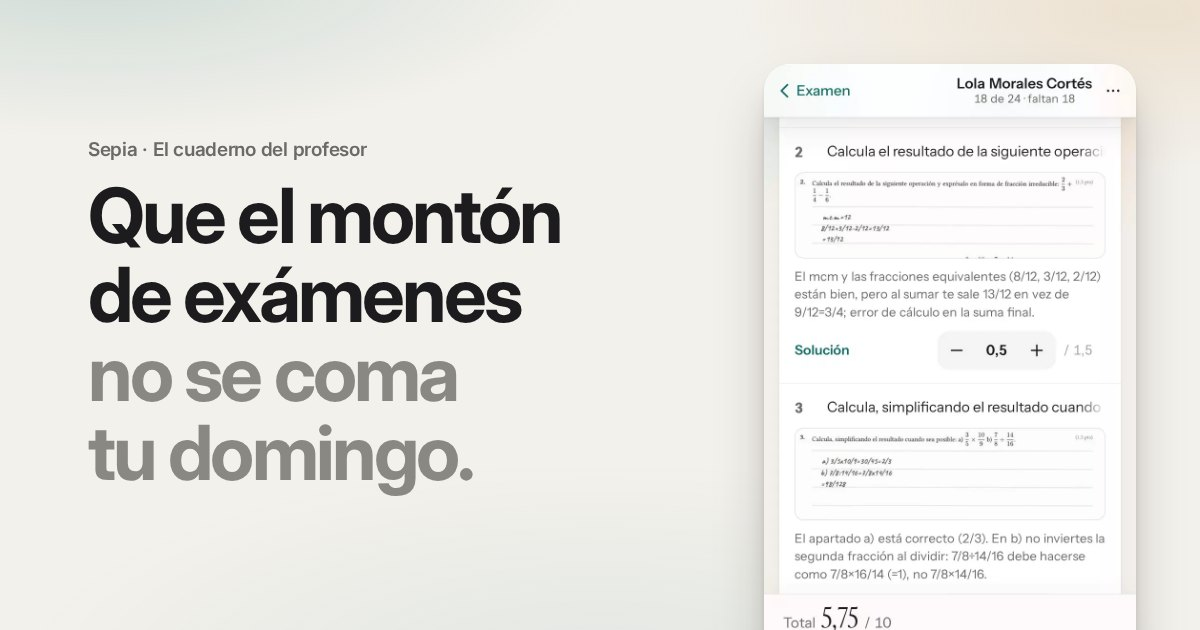
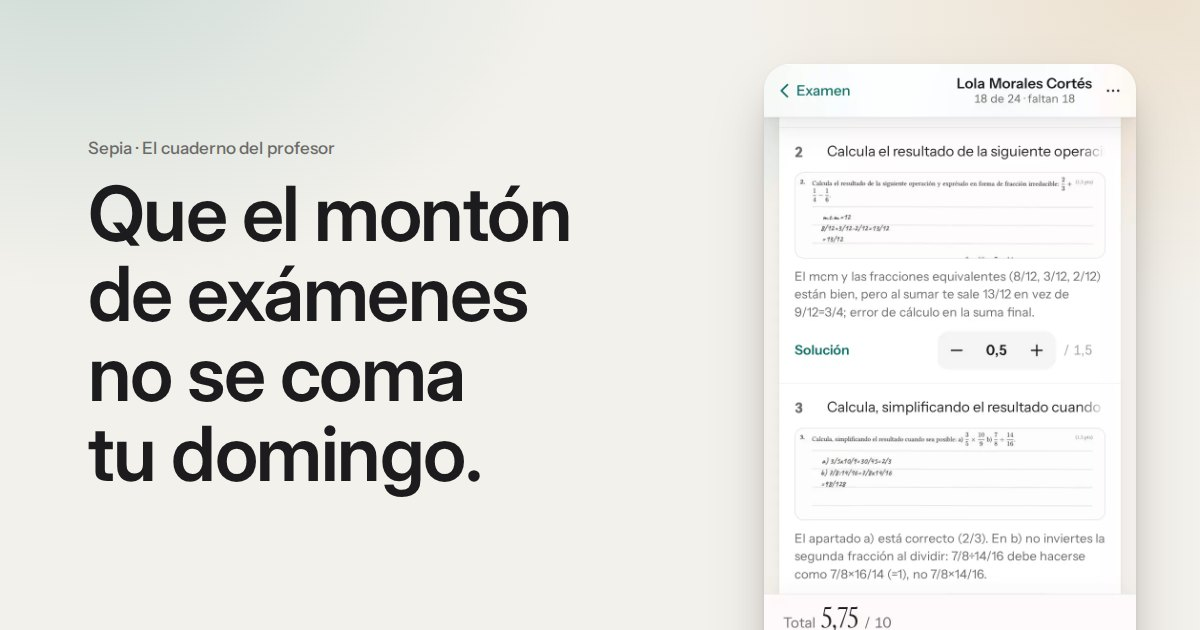
Landing: ruled promises on one measure, og preview matches the hero, fallback face sized to Inter
- Closing list: no balance wrapping, 30em measure; .facts and .points body wrap normally.
- og.jpg regenerated with the headline in ink on two lines, as on the page.
- One 'Inter Fallback' face (the regular never matched): bold Arial/Liberation at 95%,
  measured to Inter semibold's width; a medium Helvetica Neue/Roboto family first where present.
- «Ver más grabaciones» lands on the history exam.
- Secondary button and play ring edges at 3:1; dark device bezel lighter with an outer ring.
- «ESO y Bachillerato» everywhere (meta, footers, aviso legal).

Claude-Session: https://claude.ai/code/session_01NLqyRHvEtVozJDToGmu5eg

diff --git a/landing/landing.css b/landing/landing.css
@@ -9,11 +9,11 @@
 @font-face { font-family: 'Inter'; src: url(fonts/inter-latin-ext-opsz-wght.woff2) format('woff2-variations'); font-weight: 400 700; font-display: optional; unicode-range: U+0100-02BA, U+02BD-02C5, U+02C7-02CC, U+02CE-02D7, U+02DD-02FF, U+1D00-1DBF, U+1E00-1E9F, U+1EF2-1EFF, U+2020, U+20A0-20AB, U+20AD-20C0, U+2113, U+2C60-2C7F, U+A720-A7FF; }
 @font-face { font-family: 'Instrument Sans'; src: url(fonts/instrument-sans-latin-wght-normal.woff2) format('woff2-variations'); font-weight: 400 700; font-display: swap; unicode-range: U+0000-00FF, U+0131, U+0152-0153, U+02BB-02BC, U+02C6, U+02DA, U+02DC, U+0304, U+0308, U+0329, U+2000-206F, U+20AC, U+2122, U+2191, U+2193, U+2212, U+2215, U+FEFF, U+FFFD; }
 @font-face { font-family: 'Instrument Sans'; src: url(fonts/instrument-sans-latin-ext-wght-normal.woff2) format('woff2-variations'); font-weight: 400 700; font-display: swap; unicode-range: U+0100-02BA, U+02BD-02C5, U+02C7-02CC, U+02CE-02D7, U+02DD-02FF, U+1D00-1DBF, U+1E00-1E9F, U+1EF2-1EFF, U+2020, U+20A0-20AB, U+20AD-20C0, U+2113, U+2C60-2C7F, U+A720-A7FF; }
-/* Where Inter is not in use (Windows, Android, a slow first visit), a local sans scaled to its metrics. local() names a
-   single face, so the headline weights get the bold one (font-synthesis is off and would not embolden the regular),
-   scaled less because a bold Arial runs wider than Inter semibold. */
-@font-face { font-family: 'Inter Fallback'; font-weight: 400 500; src: local('Arial'), local('ArialMT'), local('Helvetica Neue'), local('Roboto'), local('Roboto-Regular'), local('Liberation Sans'); size-adjust: 107%; ascent-override: 90%; descent-override: 22.5%; line-gap-override: 0%; }
-@font-face { font-family: 'Inter Fallback'; font-weight: 600 800; src: local('Arial Bold'), local('Arial-BoldMT'), local('Helvetica Neue Bold'), local('HelveticaNeue-Bold'), local('Roboto Bold'), local('Roboto-Bold'), local('Liberation Sans Bold'); size-adjust: 100%; ascent-override: 90%; descent-override: 22.5%; line-gap-override: 0%; }
+/* Where Inter is not in use (Windows, Android, a slow first visit), a local sans scaled to Inter semibold, the only
+   weight it is set in. A medium where the system has one (Helvetica Neue, Roboto), as is; else a bold (Arial,
+   Liberation), scaled down because it runs wider. local() names a single face and font-synthesis is off. */
+@font-face { font-family: 'Inter Fallback Medium'; font-weight: 600 800; src: local('Helvetica Neue Medium'), local('HelveticaNeue-Medium'), local('Roboto Medium'), local('Roboto-Medium'); ascent-override: 90%; descent-override: 22.5%; line-gap-override: 0%; }
+@font-face { font-family: 'Inter Fallback'; font-weight: 600 800; src: local('Arial Bold'), local('Arial-BoldMT'), local('Liberation Sans Bold'); size-adjust: 95%; ascent-override: 90%; descent-override: 22.5%; line-gap-override: 0%; }
 
 :root {
   color-scheme: light;
@@ -39,11 +39,11 @@
   --e2: 0 10px 30px rgba(40, 30, 20, 0.10), 0 1px 2px rgba(40, 30, 20, 0.06);
   --ease: cubic-bezier(0.2, 0.8, 0.2, 1);
   /* Landing only */
-  --btn-edge: rgba(40, 36, 30, 0.34);   /* the outline of a secondary button or a recording's play button */
+  --btn-edge: rgba(40, 36, 30, 0.48);   /* the outline of a secondary button or a recording's play button */
   --bezel: #1D1D1F;                     /* the device frame around a recording */
   --bezel-edge: rgba(255, 255, 255, 0.10);
   --device-shadow: 0 2px 4px rgba(40, 30, 20, 0.08), 0 30px 60px -12px rgba(40, 30, 20, 0.28), 0 18px 36px -18px rgba(40, 30, 20, 0.30);
-  --display: 'Inter', 'Inter Fallback', -apple-system, BlinkMacSystemFont, 'Segoe UI', Roboto, sans-serif;
+  --display: 'Inter', 'Inter Fallback Medium', 'Inter Fallback', -apple-system, BlinkMacSystemFont, 'Segoe UI', Roboto, sans-serif;
   --text: 'Instrument Sans', -apple-system, BlinkMacSystemFont, 'Segoe UI', Roboto, 'Helvetica Neue', Arial, sans-serif;
   --margin: 20px;
   --max: 1180px;
@@ -74,10 +74,10 @@
     --ambient-2: rgba(214, 170, 110, 0.07);
     --e1: 0 1px 2px rgba(0, 0, 0, 0.4);
     --e2: 0 10px 30px rgba(0, 0, 0, 0.45), 0 1px 2px rgba(0, 0, 0, 0.3);
-    --btn-edge: rgba(255, 255, 255, 0.30);
-    --bezel: #2A2B2F;
-    --bezel-edge: rgba(255, 255, 255, 0.16);
-    --device-shadow: 0 30px 70px -10px rgba(0, 0, 0, 0.7);
+    --btn-edge: rgba(255, 255, 255, 0.40);
+    --bezel: #34353A;
+    --bezel-edge: rgba(255, 255, 255, 0.22);
+    --device-shadow: 0 0 0 1px rgba(255, 255, 255, 0.06), 0 30px 70px -10px rgba(0, 0, 0, 0.7);
   }
 }
 
@@ -254,7 +254,7 @@ h3 { font-size: 19px; font-weight: 600; line-height: 1.3; letter-spacing: -0.01e
 /* What an NEAE coordinator checks first: a quiet ruled list, a small accent mark on each line. */
 .facts { list-style: none; padding: 0; margin: 22px 0 0; max-width: 30em; border-top: 1px solid var(--line); }
 .facts li { position: relative; padding: 11px 0 11px 20px; border-bottom: 1px solid var(--line); font-size: 15px; line-height: 1.45;
-  color: var(--ink-2); text-wrap: pretty; }
+  color: var(--ink-2); text-wrap: wrap; }
 .facts li::before { content: ''; position: absolute; left: 2px; top: 1.28em; width: 8px; height: 2px; border-radius: 1px; background: var(--accent); }
 
 /* Two short moments side by side on a desktop, on one band: words above, phones on the same line, one left edge. */
@@ -310,6 +310,7 @@ h3 { font-size: 19px; font-weight: 600; line-height: 1.3; letter-spacing: -0.01e
 .cards .num, .points .num { display: block; margin-bottom: 14px; }
 .cards h3, .points h3 { margin-bottom: 6px; }
 .cards p, .points p { font-size: 16px; line-height: 1.5; color: var(--ink-2); text-wrap: pretty; }
+.points p { text-wrap: wrap; }
 .points li { padding: 20px 0 22px; border-top: 1px solid var(--line); }
 .points li:last-child { border-bottom: 1px solid var(--line); }
 #papel { padding-top: var(--section); }
@@ -342,8 +343,7 @@ h3 { font-size: 19px; font-weight: 600; line-height: 1.3; letter-spacing: -0.01e
   .closing__panel { padding: 64px 48px 20px; text-align: center; display: grid; justify-items: center; }
   .closing h2 { font-size: 48px; }
   .closing .actions { justify-content: center; }
-  .ruled { width: 100%; max-width: 34em; margin-top: 44px; text-align: left; }
-  .ruled li { text-wrap: balance; }
+  .ruled { width: 100%; max-width: 30em; margin-top: 44px; text-align: left; }
 }
 @media (min-width: 1024px) {
   .closing__panel { padding: 80px 64px 28px; }

diff --git a/landing/index.html b/landing/index.html
@@ -4,13 +4,13 @@
   <meta charset="utf-8">
   <meta name="viewport" content="width=device-width, initial-scale=1, viewport-fit=cover">
   <title>Sepia · El cuaderno del profesor</title>
-  <meta name="description" content="El cuaderno del profesor de Secundaria y Bachillerato. Escaneas el montón de exámenes y la IA propone los puntos de cada pregunta con la respuesta del alumno al lado; tú aceptas o cambias. También la lista en dos toques, las versiones adaptadas para el alumnado NEAE y la evaluación. Grabaciones de la app real.">
+  <meta name="description" content="El cuaderno del profesor de ESO y Bachillerato. Escaneas el montón de exámenes y la IA propone los puntos de cada pregunta con la respuesta del alumno al lado; tú aceptas o cambias. También la lista en dos toques, las versiones adaptadas para el alumnado NEAE y la evaluación. Grabaciones de la app real.">
   <meta property="og:type" content="website">
   <meta property="og:locale" content="es_ES">
   <meta property="og:title" content="Sepia · Que el montón de exámenes no se coma tu domingo">
-  <meta property="og:description" content="El cuaderno del profesor de Secundaria y Bachillerato. La IA propone; tú decides.">
+  <meta property="og:description" content="El cuaderno del profesor de ESO y Bachillerato. La IA propone; tú decides.">
   <!-- WhatsApp needs absolute URLs in link previews: once the domain is set, add og:url and make og:image absolute. -->
-  <meta property="og:image" content="/landing/img/og.jpg?v=0f7b43ad">
+  <meta property="og:image" content="/landing/img/og.jpg?v=5f436d89">
   <meta property="og:image:width" content="1200">
   <meta property="og:image:height" content="630">
   <meta property="og:image:alt" content="Sepia: que el montón de exámenes no se coma tu domingo, junto a la revisión de un examen escaneado en el móvil.">
@@ -41,7 +41,7 @@
         <p class="lead">Escaneas las hojas tal cual y la IA propone los puntos de cada pregunta, con la respuesta del alumno al lado. Tú aceptas o cambias.</p>
         <div class="actions">
           <a class="btn btn--primary" href="https://linktr.ee/sepiaeducation" rel="noopener">Apúntate al piloto</a>
-          <a class="btn btn--line" href="#semana">Ver más grabaciones</a>
+          <a class="btn btn--line" href="#historia">Ver más grabaciones</a>
         </div>
         <p class="assure">Acceso anticipado, sin tarjeta y en el&nbsp;navegador.</p>
       </div>
@@ -264,7 +264,7 @@
 
   <footer class="foot">
     <a class="brand brand--small" href="/"><img src="/landing/img/squid.svg" alt="" width="20" height="20"><span>Sepia</span></a>
-    <span>El cuaderno del profesor de Secundaria y Bachillerato, en el navegador del móvil y del ordenador.</span>
+    <span>El cuaderno del profesor de ESO y Bachillerato, en el navegador del móvil y del ordenador.</span>
     <nav class="foot__legal" aria-label="Información legal">
       <a href="/landing/privacidad.html">Privacidad</a>
       <a href="/landing/aviso-legal.html">Aviso legal</a>

diff --git a/landing/aviso-legal.html b/landing/aviso-legal.html
@@ -36,7 +36,7 @@
       <p>Sepia es un servicio de su titular, identificado arriba.</p>
 
       <h2>Qué es Sepia</h2>
-      <p>Un cuaderno del profesor para Secundaria y Bachillerato: pasar lista, notas, exámenes corregidos en borrador con IA, materiales de cada unidad y evaluación. Lo que propone la IA es un borrador: la nota, el comentario o el material definitivo los decide el profesor.</p>
+      <p>Un cuaderno del profesor para ESO y Bachillerato: pasar lista, notas, exámenes corregidos en borrador con IA, materiales de cada unidad y evaluación. Lo que propone la IA es un borrador: la nota, el comentario o el material definitivo los decide el profesor.</p>
 
       <h2>Datos personales</h2>
       <p>Cómo se tratan tus datos y los de tus alumnos está en la <a href="/landing/privacidad.html">política de privacidad</a>.</p>
@@ -45,7 +45,7 @@
 
   <footer class="foot">
     <a class="brand brand--small" href="/"><img src="/landing/img/squid.svg" alt="" width="20" height="20"><span>Sepia</span></a>
-    <span>El cuaderno del profesor de Secundaria y Bachillerato.</span>
+    <span>El cuaderno del profesor de ESO y Bachillerato.</span>
     <nav class="foot__legal" aria-label="Información legal">
       <a href="/landing/privacidad.html">Privacidad</a>
       <a href="/landing/aviso-legal.html" aria-current="page">Aviso legal</a>

diff --git a/landing/privacidad.html b/landing/privacidad.html
@@ -68,7 +68,7 @@
 
   <footer class="foot">
     <a class="brand brand--small" href="/"><img src="/landing/img/squid.svg" alt="" width="20" height="20"><span>Sepia</span></a>
-    <span>El cuaderno del profesor de Secundaria y Bachillerato.</span>
+    <span>El cuaderno del profesor de ESO y Bachillerato.</span>
     <nav class="foot__legal" aria-label="Información legal">
       <a href="/landing/privacidad.html" aria-current="page">Privacidad</a>
       <a href="/landing/aviso-legal.html">Aviso legal</a>
